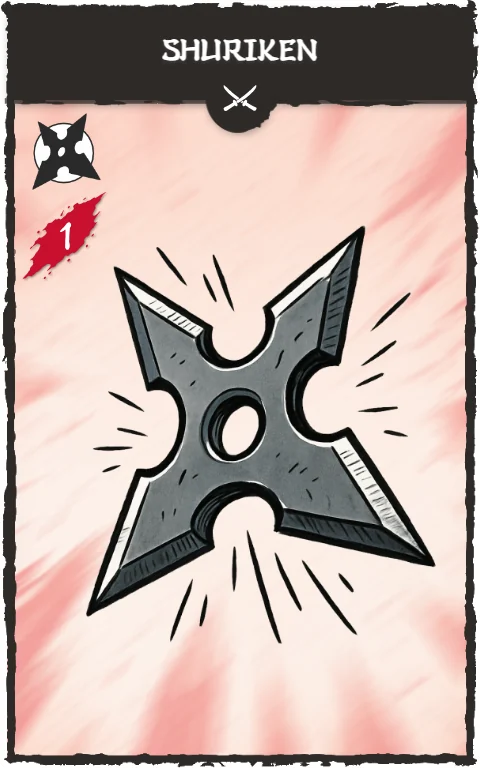
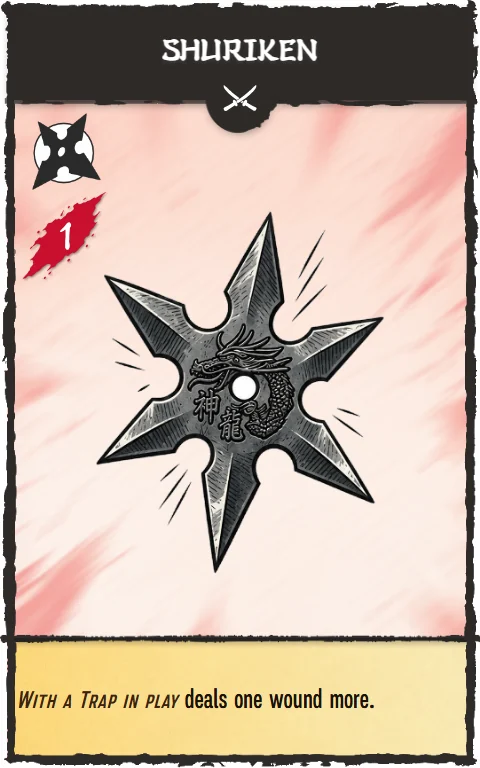
Сюрикен: четыре формы по одной вместо двух карт по две
#32 и #34 (qty 2→1) плюс новые #330 и #331, у каждой своя форма и арт:
роппо #32 и мандзи #330 — обычные, дзюмондзи #34 и сампо #331 —
отравленные. Название и текст пока общие, ID разные — под будущие
описания. Арты вырезаны из прототипа 2×2 по фото, фон в альфу; обычные
уменьшены до 0.85 и отцентрованы между плашками, чтобы не заезжать на
значки. Старый общий арт — в cards/obsolete/, превью #32 в правилах
перерисовано.

diff --git a/js/cards.js b/js/cards.js
@@ -501,13 +501,26 @@ const CARDS = [
     title: "Сюрикен",
     enTitle: "Shuriken",
     types: ["weapon"],
-    qty: 2,
+    qty: 1,
     group: "weapon",
     icons: ["ranged", "dmg1"],
     tags: ["toPrint"],
     desc: "{При наличии ловушки} наносит на одну рану больше.",
     enDesc: "{With a Trap in play} deals one wound more.",
-    img: "cards/card_34_syuriken.png"
+    img: "cards/card_32_syuriken_roppo.png"
+  },
+  {
+    id: 330,
+    title: "Сюрикен",
+    enTitle: "Shuriken",
+    types: ["weapon"],
+    qty: 1,
+    group: "weapon",
+    icons: ["ranged", "dmg1"],
+    tags: ["toPrint"],
+    desc: "{При наличии ловушки} наносит на одну рану больше.",
+    enDesc: "{With a Trap in play} deals one wound more.",
+    img: "cards/card_330_syuriken_mandzi.png"
   },
   {
     id: 33,
@@ -540,13 +553,26 @@ const CARDS = [
     title: "Сюрикен",
     enTitle: "Shuriken",
     types: ["weapon"],
-    qty: 2,
+    qty: 1,
     group: "weapon",
     icons: ["ranged", "dmg1", "poison"],
     tags: ["poison", "toPrint"],
     desc: "{При наличии ловушки} наносит на одну рану больше.",
     enDesc: "{With a Trap in play} deals one wound more.",
-    img: "cards/card_34_syuriken.png"
+    img: "cards/card_34_syuriken_dzyumondzi.png"
+  },
+  {
+    id: 331,
+    title: "Сюрикен",
+    enTitle: "Shuriken",
+    types: ["weapon"],
+    qty: 1,
+    group: "weapon",
+    icons: ["ranged", "dmg1", "poison"],
+    tags: ["poison", "toPrint"],
+    desc: "{При наличии ловушки} наносит на одну рану больше.",
+    enDesc: "{With a Trap in play} deals one wound more.",
+    img: "cards/card_331_syuriken_sampo.png"
   },
   {
     id: 35,
